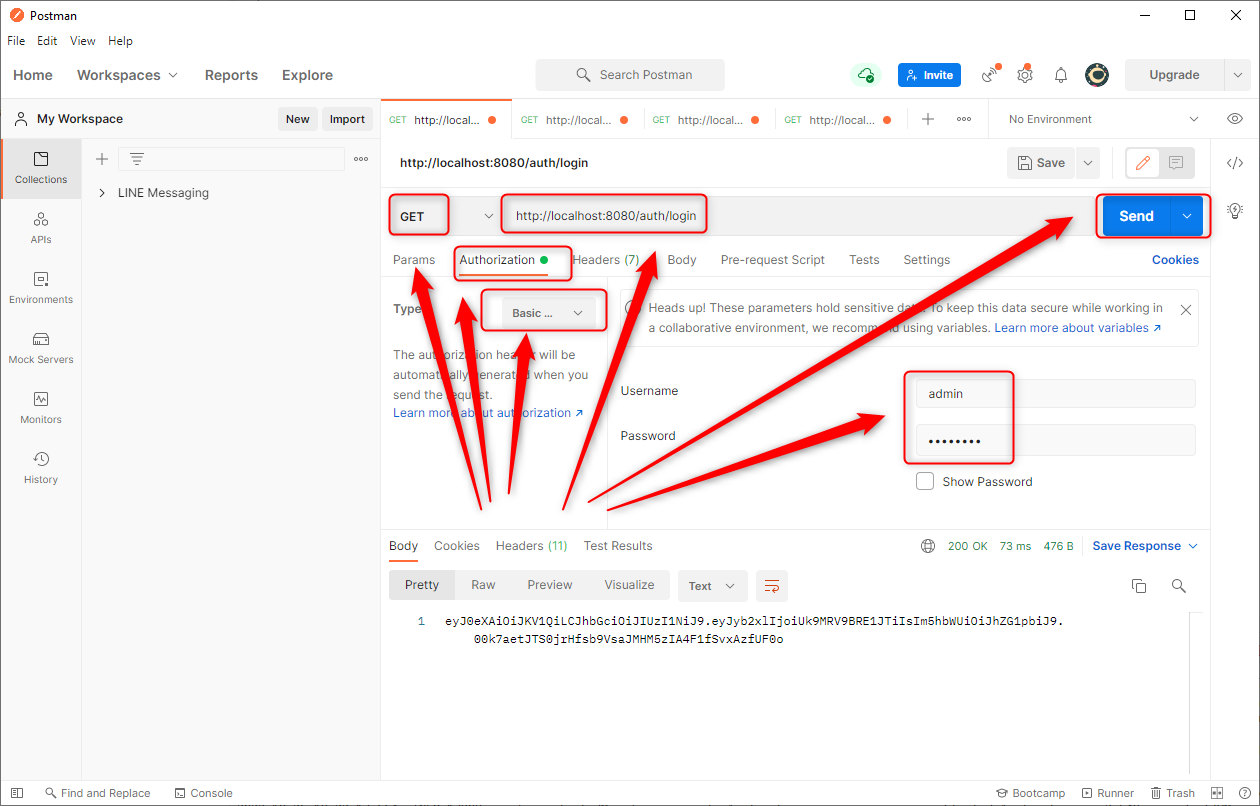
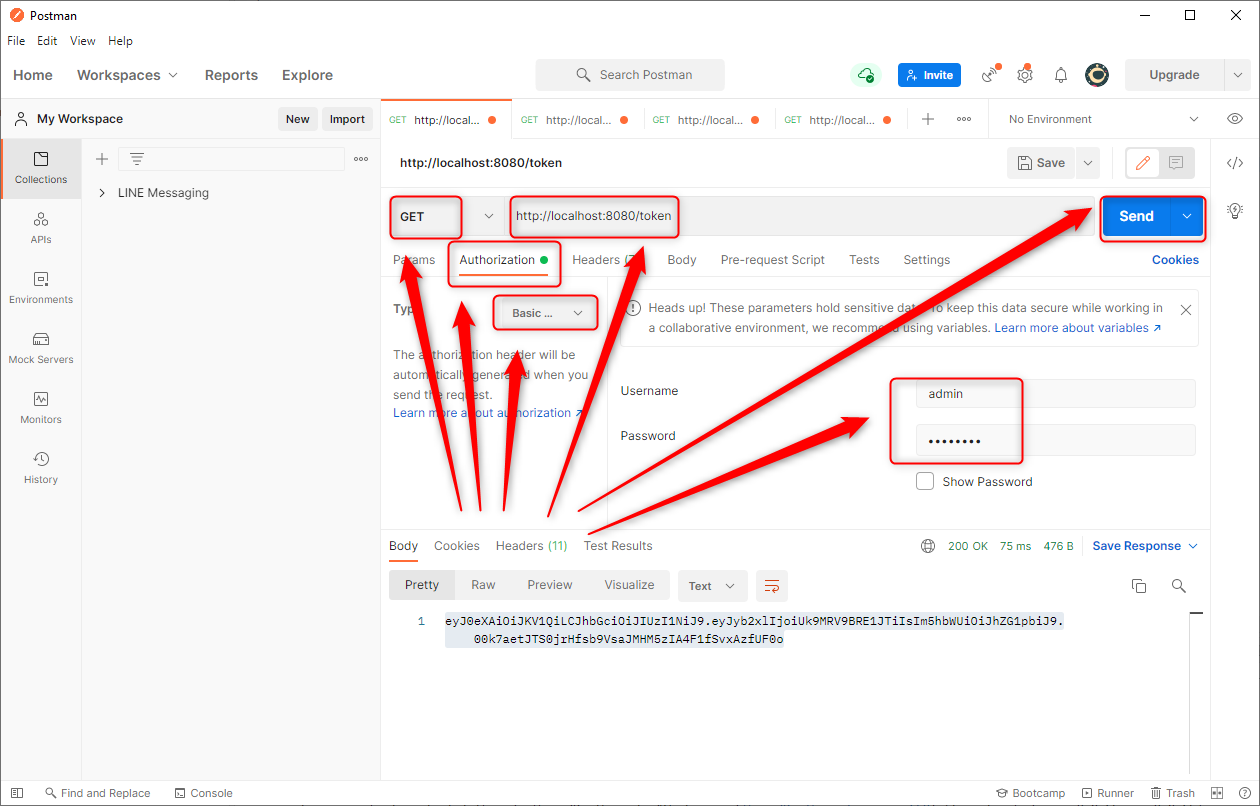
Update project spring-security-oauth2-rest-basic

diff --git a/spring-boot/others/security/authentication-authorization/no-sso/oauth2/authentication/spring-security-oauth2-rest-basic/README.md b/spring-boot/others/security/authentication-authorization/no-sso/oauth2/authentication/spring-security-oauth2-rest-basic/README.md
@@ -42,11 +42,11 @@ USAGE
 
 Usage steps:
 1. Start application with `mvn spring-boot:run`
-1. Send GET request (Basic Authentication with credentials: "username" : "user", "password" : "user123") with Postman to URL `http://localhost:8080/auth/login`
+1. Send GET request (Basic Authentication with credentials: "username" : "user", "password" : "user123") with Postman to URL `http://localhost:8080/token`
 1. Send GET request with Postman to URL `http://localhost:8080/`
 1. Send GET request (with token as Bearer Authorization) with Postman to URL `http://localhost:8080/user`
 1. Send GET request (with token as Bearer Authorization)  with Postman to URL `http://localhost:8080/admin`
-1. Send GET request (Basic Authentication with credentials: "username" : "admin", "password" : "admin123") with Postman to URL `http://localhost:8080/auth/login`
+1. Send GET request (Basic Authentication with credentials: "username" : "admin", "password" : "admin123") with Postman to URL `http://localhost:8080/token`
 1. Send GET request with Postman to URL `http://localhost:8080/`
 1. Send GET request (with token as Bearer Authorization)  with Postman to URL `http://localhost:8080/user`
 1. Send GET request (with token as Bearer Authorization)  with Postman to URL `http://localhost:8080/admin`
